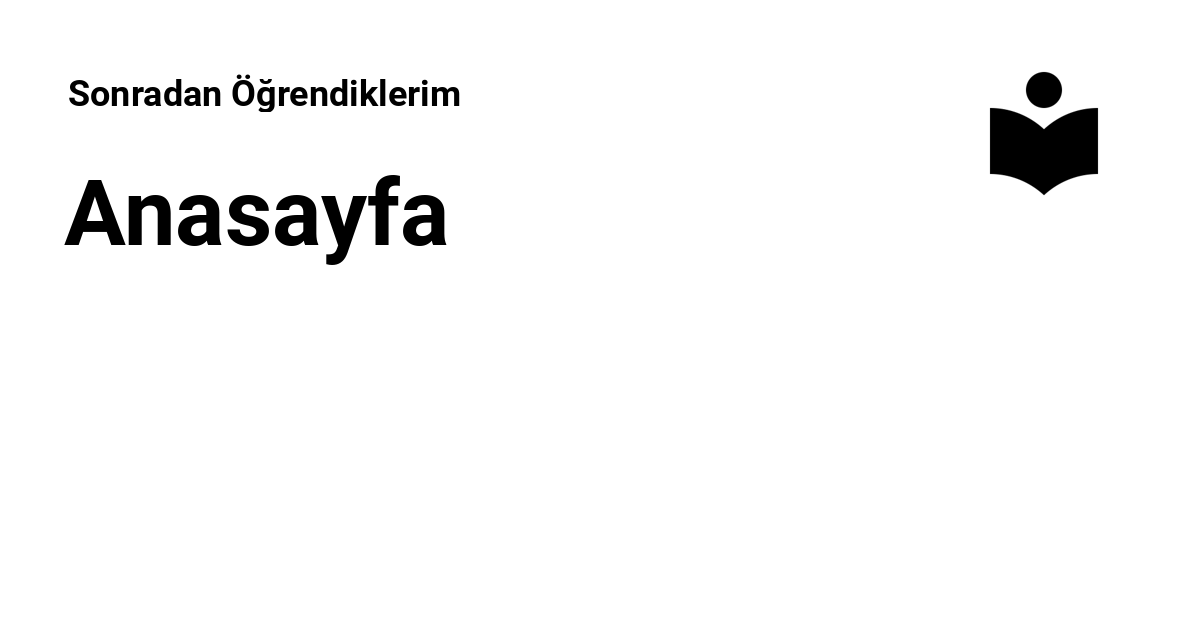
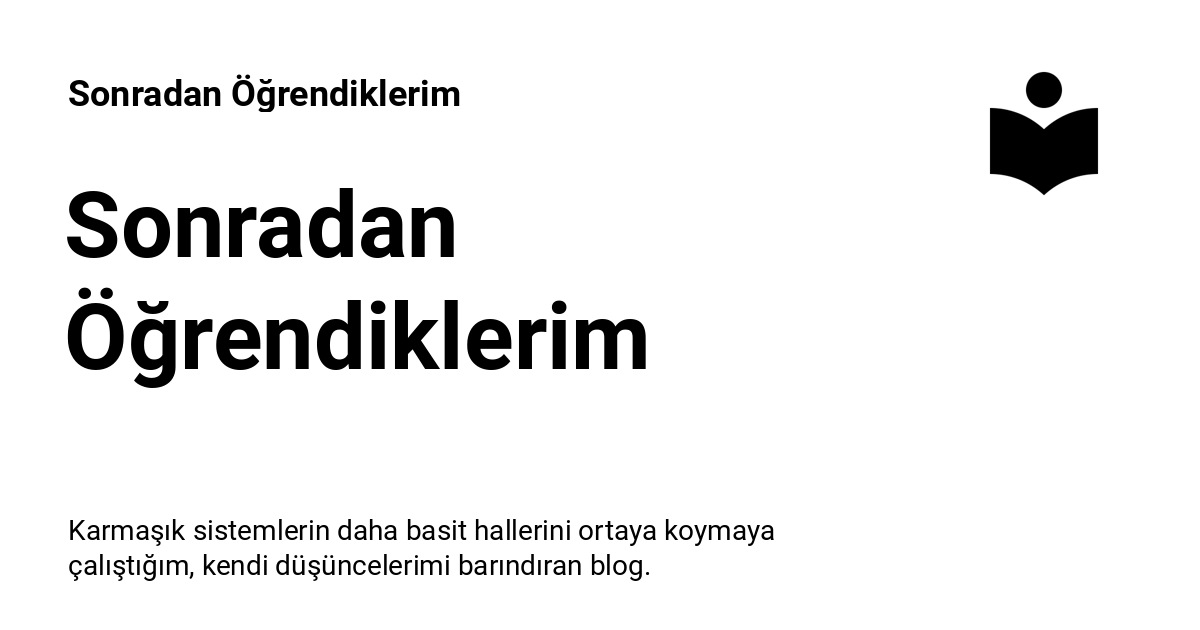
Deployed 0602d1d with MkDocs version: 1.5.3

Changed region(s): [[0.0617, 0.8143, 0.6475, 0.9349], [0.0308, 0.4524, 0.555, 0.6333], [0.0308, 0.2714, 0.4008, 0.4222]]

diff --git a/bilgisayar-muhendisligine-giris/baslarken/index.html b/bilgisayar-muhendisligine-giris/baslarken/index.html
@@ -6,11 +6,13 @@
       <meta charset="utf-8">
       <meta name="viewport" content="width=device-width,initial-scale=1">
       
+        <meta name="description" content="Bilgisayar mühendisliğine girdiniz, peki sonrası?">
+      
       
         <meta name="author" content="Eren Türkay">
       
       
-        <link rel="canonical" href="https://sonradanogrendiklerim.com/bilgisayar-muhendisligine-giris/baslamadan-once/">
+        <link rel="canonical" href="https://sonradanogrendiklerim.com/bilgisayar-muhendisligine-giris/baslarken/">
       
       
         <link rel="prev" href="../onsoz/">
@@ -24,7 +26,7 @@
     
     
       
-        <title>Başlamadan Önce - Sonradan Öğrendiklerim</title>
+        <title>Bilgisayar Mühendisliğine Başlarken - Sonradan Öğrendiklerim</title>
       
     
     
@@ -71,11 +73,11 @@
       
         <meta  property="og:type"  content="website" >
       
-        <meta  property="og:title"  content="Başlamadan Önce - Sonradan Öğrendiklerim" >
+        <meta  property="og:title"  content="Bilgisayar Mühendisliğine Başlarken - Sonradan Öğrendiklerim" >
       
-        <meta  property="og:description"  content="None" >
+        <meta  property="og:description"  content="Bilgisayar mühendisliğine girdiniz, peki sonrası?" >
       
-        <meta  property="og:image"  content="https://sonradanogrendiklerim.com/assets/images/social/bilgisayar-muhendisligine-giris/baslamadan-once.png" >
+        <meta  property="og:image"  content="https://sonradanogrendiklerim.com/assets/images/social/bilgisayar-muhendisligine-giris/baslarken.png" >
       
         <meta  property="og:image:type"  content="image/png" >
       
@@ -83,15 +85,15 @@
       
         <meta  property="og:image:height"  content="630" >
       
-        <meta  property="og:url"  content="https://sonradanogrendiklerim.com/bilgisayar-muhendisligine-giris/baslamadan-once/" >
+        <meta  property="og:url"  content="https://sonradanogrendiklerim.com/bilgisayar-muhendisligine-giris/baslarken/" >
       
         <meta  name="twitter:card"  content="summary_large_image" >
       
-        <meta  name="twitter:title"  content="Başlamadan Önce - Sonradan Öğrendiklerim" >
+        <meta  name="twitter:title"  content="Bilgisayar Mühendisliğine Başlarken - Sonradan Öğrendiklerim" >
       
-        <meta  name="twitter:description"  content="None" >
+        <meta  name="twitter:description"  content="Bilgisayar mühendisliğine girdiniz, peki sonrası?" >
       
-        <meta  name="twitter:image"  content="https://sonradanogrendiklerim.com/assets/images/social/bilgisayar-muhendisligine-giris/baslamadan-once.png" >
+        <meta  name="twitter:image"  content="https://sonradanogrendiklerim.com/assets/images/social/bilgisayar-muhendisligine-giris/baslarken.png" >
       
     
     
@@ -141,7 +143,7 @@
         <div class="md-header__topic" data-md-component="header-topic">
           <span class="md-ellipsis">
             
-              Başlamadan Önce
+              Bilgisayar Mühendisliğine Başlarken
             
           </span>
         </div>
@@ -342,7 +344,7 @@
         
   
   <span class="md-ellipsis">
-    Başlamadan Önce
+    Başlarken
   </span>
   
 
@@ -475,7 +477,7 @@
                   
 
 
-  <h1>Başlamadan Önce</h1>
+  <h1>Başlarken</h1>
 
 
 

diff --git a/index.html b/index.html
@@ -6,6 +6,8 @@
       <meta charset="utf-8">
       <meta name="viewport" content="width=device-width,initial-scale=1">
       
+        <meta name="description" content="Karmaşık sistemlerin daha basit hallerini ortaya koymaya çalıştığım, kendi düşüncelerimi barındıran blog.">
+      
       
         <meta name="author" content="Eren Türkay">
       
@@ -22,7 +24,7 @@
     
     
       
-        <title>Sonradan Öğrendiklerim</title>
+        <title>Sonradan Öğrendiklerim - Sonradan Öğrendiklerim</title>
       
     
     
@@ -69,9 +71,9 @@
       
         <meta  property="og:type"  content="website" >
       
-        <meta  property="og:title"  content="Anasayfa" >
+        <meta  property="og:title"  content="Sonradan Öğrendiklerim" >
       
-        <meta  property="og:description"  content="None" >
+        <meta  property="og:description"  content="Karmaşık sistemlerin daha basit hallerini ortaya koymaya çalıştığım, kendi düşüncelerimi barındıran blog." >
       
         <meta  property="og:image"  content="https://sonradanogrendiklerim.com/assets/images/social/index.png" >
       
@@ -85,9 +87,9 @@
       
         <meta  name="twitter:card"  content="summary_large_image" >
       
-        <meta  name="twitter:title"  content="Anasayfa" >
+        <meta  name="twitter:title"  content="Sonradan Öğrendiklerim" >
       
-        <meta  name="twitter:description"  content="None" >
+        <meta  name="twitter:description"  content="Karmaşık sistemlerin daha basit hallerini ortaya koymaya çalıştığım, kendi düşüncelerimi barındıran blog." >
       
         <meta  name="twitter:image"  content="https://sonradanogrendiklerim.com/assets/images/social/index.png" >
       
@@ -144,7 +146,7 @@
         <div class="md-header__topic" data-md-component="header-topic">
           <span class="md-ellipsis">
             
-              Anasayfa
+              Sonradan Öğrendiklerim
             
           </span>
         </div>
@@ -378,11 +380,11 @@
   
   
     <li class="md-nav__item">
-      <a href="bilgisayar-muhendisligine-giris/baslamadan-once/" class="md-nav__link">
+      <a href="bilgisayar-muhendisligine-giris/baslarken/" class="md-nav__link">
         
   
   <span class="md-ellipsis">
-    Başlamadan Önce
+    Başlarken
   </span>
   
 

diff --git a/bilgisayar-muhendisligine-giris/onsoz/index.html b/bilgisayar-muhendisligine-giris/onsoz/index.html
@@ -18,7 +18,7 @@
         <link rel="prev" href="../..">
       
       
-        <link rel="next" href="../baslamadan-once/">
+        <link rel="next" href="../baslarken/">
       
       
       <link rel="icon" href="../../assets/favicon.png">
@@ -26,7 +26,7 @@
     
     
       
-        <title>Bilgisayar Mühendisliğine Giriş - Sonradan Öğrendiklerim</title>
+        <title>Bilgisayar Mühendisliğine Giriş - Önsöz - Sonradan Öğrendiklerim</title>
       
     
     
@@ -73,7 +73,7 @@
       
         <meta  property="og:type"  content="website" >
       
-        <meta  property="og:title"  content="Bilgisayar Mühendisliğine Giriş - Sonradan Öğrendiklerim" >
+        <meta  property="og:title"  content="Bilgisayar Mühendisliğine Giriş - Önsöz - Sonradan Öğrendiklerim" >
       
         <meta  property="og:description"  content="Bilgisayar mühendisliğine girdiniz, peki sonrası?" >
       
@@ -89,7 +89,7 @@
       
         <meta  name="twitter:card"  content="summary_large_image" >
       
-        <meta  name="twitter:title"  content="Bilgisayar Mühendisliğine Giriş - Sonradan Öğrendiklerim" >
+        <meta  name="twitter:title"  content="Bilgisayar Mühendisliğine Giriş - Önsöz - Sonradan Öğrendiklerim" >
       
         <meta  name="twitter:description"  content="Bilgisayar mühendisliğine girdiniz, peki sonrası?" >
       
@@ -148,7 +148,7 @@
         <div class="md-header__topic" data-md-component="header-topic">
           <span class="md-ellipsis">
             
-              Bilgisayar Mühendisliğine Giriş
+              Bilgisayar Mühendisliğine Giriş - Önsöz
             
           </span>
         </div>
@@ -387,11 +387,11 @@
   
   
     <li class="md-nav__item">
-      <a href="../baslamadan-once/" class="md-nav__link">
+      <a href="../baslarken/" class="md-nav__link">
         
   
   <span class="md-ellipsis">
-    Başlamadan Önce
+    Başlarken
   </span>
   
 

diff --git a/bilgisayar-muhendisligine-giris/acma-tusuna-basinca-ne-olur/index.html b/bilgisayar-muhendisligine-giris/acma-tusuna-basinca-ne-olur/index.html
@@ -13,7 +13,7 @@
         <link rel="canonical" href="https://sonradanogrendiklerim.com/bilgisayar-muhendisligine-giris/acma-tusuna-basinca-ne-olur/">
       
       
-        <link rel="prev" href="../baslamadan-once/">
+        <link rel="prev" href="../baslarken/">
       
       
         <link rel="next" href="../isletim-sistemleri/">
@@ -331,11 +331,11 @@
   
   
     <li class="md-nav__item">
-      <a href="../baslamadan-once/" class="md-nav__link">
+      <a href="../baslarken/" class="md-nav__link">
         
   
   <span class="md-ellipsis">
-    Başlamadan Önce
+    Başlarken
   </span>
   
 

diff --git a/404.html b/404.html
@@ -292,11 +292,11 @@
   
   
     <li class="md-nav__item">
-      <a href="/bilgisayar-muhendisligine-giris/baslamadan-once/" class="md-nav__link">
+      <a href="/bilgisayar-muhendisligine-giris/baslarken/" class="md-nav__link">
         
   
   <span class="md-ellipsis">
-    Başlamadan Önce
+    Başlarken
   </span>
   
 

diff --git a/bilgisayar-muhendisligine-giris/bir-program-nasil-calisir/index.html b/bilgisayar-muhendisligine-giris/bir-program-nasil-calisir/index.html
@@ -331,11 +331,11 @@
   
   
     <li class="md-nav__item">
-      <a href="../baslamadan-once/" class="md-nav__link">
+      <a href="../baslarken/" class="md-nav__link">
         
   
   <span class="md-ellipsis">
-    Başlamadan Önce
+    Başlarken
   </span>
   
 

diff --git a/bilgisayar-muhendisligine-giris/isletim-sistemleri/index.html b/bilgisayar-muhendisligine-giris/isletim-sistemleri/index.html
@@ -336,11 +336,11 @@
   
   
     <li class="md-nav__item">
-      <a href="../baslamadan-once/" class="md-nav__link">
+      <a href="../baslarken/" class="md-nav__link">
         
   
   <span class="md-ellipsis">
-    Başlamadan Önce
+    Başlarken
   </span>
   
 

diff --git a/bilgisayar-muhendisligine-giris/terminal/index.html b/bilgisayar-muhendisligine-giris/terminal/index.html
@@ -329,11 +329,11 @@
   
   
     <li class="md-nav__item">
-      <a href="../baslamadan-once/" class="md-nav__link">
+      <a href="../baslarken/" class="md-nav__link">
         
   
   <span class="md-ellipsis">
-    Başlamadan Önce
+    Başlarken
   </span>
   
 
